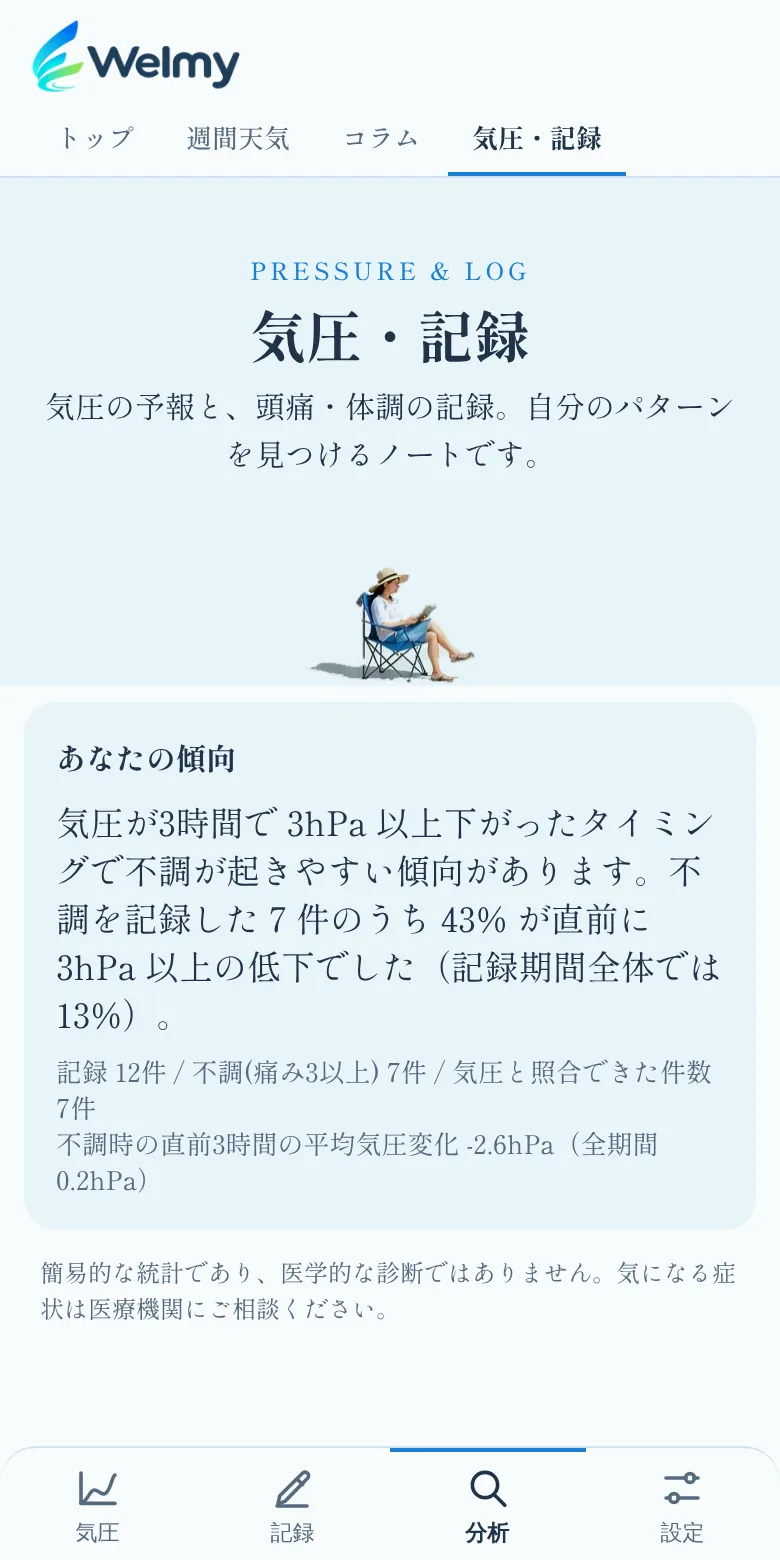
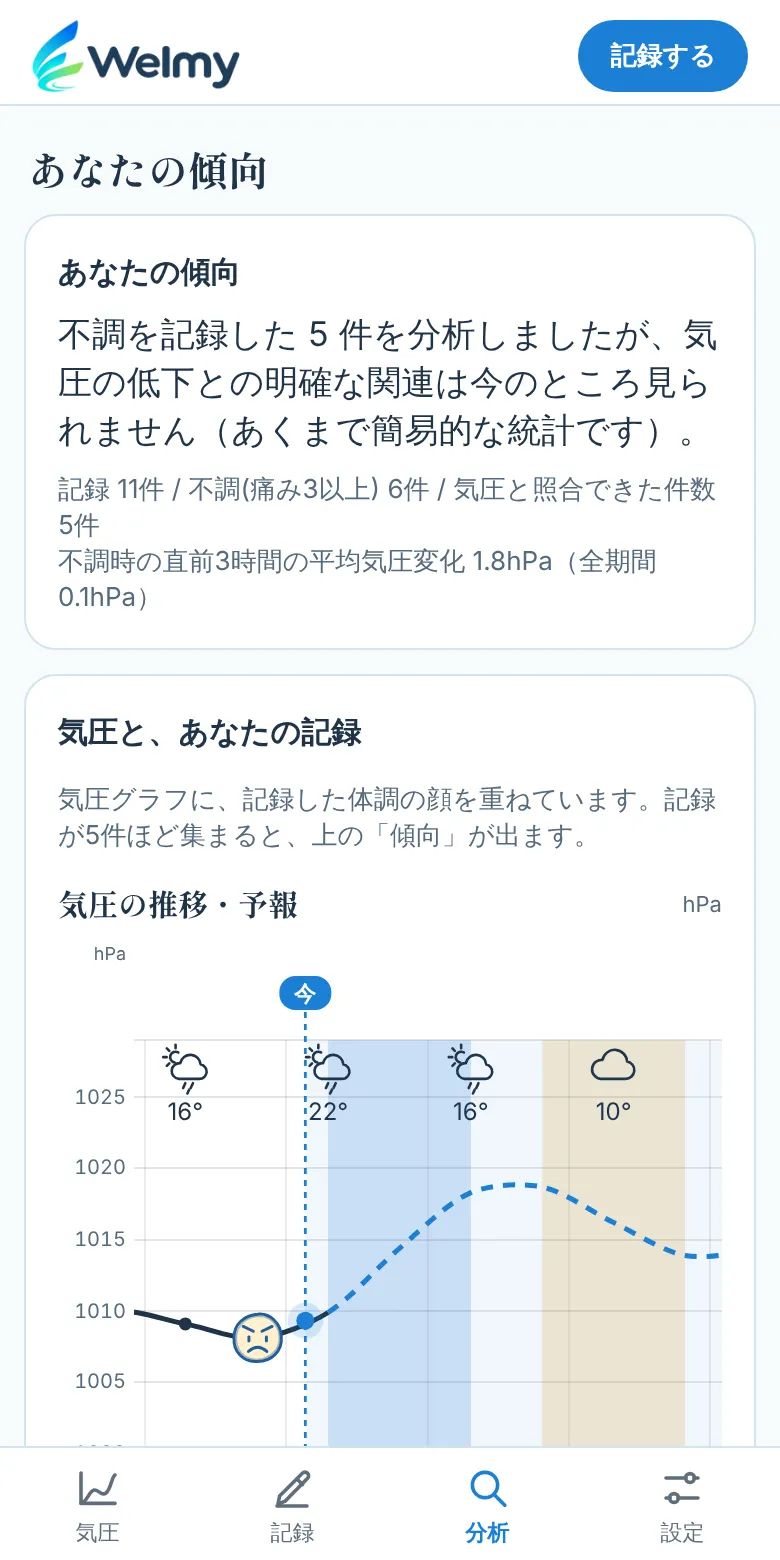
サイト点検4: サービス紹介を短縮し画面キャプチャを現行UIで撮り直し、コラム一覧を4分類で表示
Claude-Session: https://claude.ai/code/session_01GABYT29VUZzXrt2vySzu7C

diff --git a/src/pages.js b/src/pages.js
@@ -399,11 +399,21 @@ ${notifyCta()}
 
 /* ---------- コラム ---------- */
 
+// コラム一覧の分類(全記事がどこかに入ること: test で確認)
+export const COL_CATS = [
+  ['basic', '基礎知識', '気象病と気圧のしくみ', ['what-is-kishobyo', 'kiatsu-zutsu', 'pressure-pattern', 'tenkitsu-season', 'typhoon-headache']],
+  ['care', '備えとセルフケア', '前日の準備・その場の対処・習慣', ['day-before', 'when-it-hurts', 'daily-habits', 'ear-stretch', 'neck-shoulder-stretch']],
+  ['symptom', '症状別', '頭痛以外の不調・続くとき', ['sleepy-dizzy', 'old-injury', 'how-long']],
+  ['doctor', '受診・薬・記録', '医療機関・市販薬・頭痛ダイアリー', ['when-to-see-doctor', 'which-department', 'otc-medicine', 'headache-diary', 'how-to-use-app']],
+];
 export function columnsPage() {
   const body = `
 <div class="page-head has-ppl"><div class="wrap"><p class="en">COLUMN</p><h1>コラム｜天気痛・気象病</h1><p>気圧の変化による頭痛や不調との付き合い方を、やさしくまとめました。</p></div><div class="pg-ppl" aria-hidden="true">${person('yoga', { k: 0.5 })}</div></div>
 <div class="wrap">
-<div class="col-list">${COLUMNS.map((c) => columnCard(c)).join('')}</div>
+<nav class="col-cats" aria-label="分類">${COL_CATS.map(([id, n]) => `<a href="#cat-${id}">${n}</a>`).join('')}</nav>
+${COL_CATS.map(([id, n, d, slugs]) => `<section class="col-cat" id="cat-${id}" aria-labelledby="h-${id}"><h2 id="h-${id}" class="pg-h">${n}<small>${d}</small></h2>
+<div class="col-list">${slugs.map((sl) => findColumn(sl)).filter(Boolean).map((c) => columnCard(c)).join('')}</div></section>`).join('\n')}
+<p class="muted small">症状から探す：${SYMPTOMS.map((y) => `<a href="/symptoms/${y.slug}">${esc(y.name)}</a>`).join('・')}　／　<a href="/guide">気象病ガイド・症状別</a></p>
 <p class="disclaimer">コラムは一般的な情報で、診断や治療の代わりにはなりません。症状が強い・続くときは医療機関に相談してください。</p>
 </div>`;
   return layout({
@@ -751,22 +761,17 @@ ${GLOSSARY.map(([t, r, d, slug], i) => `<div class="gl-i" id="g${i + 1}"><dt>${e
 const ABOUT_FEATURES = [
   ['01', '気圧の変化をやさしく予報', '気象庁のアメダスと天気予報、OpenWeatherMapをもとに、お住まいの都道府県の気圧を時間ごとに見られます。グラフには過去の実測と今後の予測が並び、いつ下がるのかが一目で分かります。'],
   ['02', '体調そらもよう(5段階)', '気圧・気温差・降水・湿度の4つを、人物イラストの5段階(気候が快調〜体調不良に注意)とスコア(0〜100)にまとめます。気圧の低下は「上昇注意」「やや注意」「注意」「警戒」の4段階(1時間あたり+1.0hPa以上 / −0.5〜−1.0 / −1.0〜−1.5 / −1.5以下)でも確認できます。暫定の目安で、医学的な基準ではありません。'],
-  ['03', '痛み・症状・服薬の記録', '痛みの度合いを5つの顔から選ぶだけで記録できます。頭痛・めまい・だるさ・睡眠の質などの症状、飲んだ薬、メモは「くわしく記録する」から任意で。記録にはそのときの気圧と6時間前との差が自動で添えられ、月間カレンダーでも振り返れます。'],
+  ['03', '痛み・症状・服薬の記録', '痛みの度合いを6つの顔(痛みなし〜耐えがたい)から選ぶだけで記録できます。頭痛・めまい・だるさ・睡眠の質などの症状、飲んだ薬、メモは「くわしく記録する」から任意で。記録にはそのときの気圧と6時間前との差が自動で添えられ、月間カレンダーでも振り返れます。'],
   ['04', '自分のパターンを見つける分析', '記録と気圧の変化を重ねて、「気圧が下がり始めて何時間後に痛みが出やすいか」などの傾向を振り返れます。通院時に見せられる履歴としても使えます。'],
   ['05', '前の晩のお知らせ(準備中)', '翌日に気圧が大きく動きそうなとき、前の晩にプッシュ通知でお知らせする機能です。受け取るレベル(注意以上 / 警戒のみ)と時刻(17〜23時)を選べる設計ですが、通知の送信は現在準備中です。'],
-  ['06', '明日の見通しと週間天気', 'トップでは、夜は「明日」、日中は「今日」の気圧の見通しを大きく表示します。週間天気では、7日間の天気・気温・降水確率と気圧の見通しをまとめて確認でき、週末の行は強調され、この週末の見通しを共有することもできます。'],
-  ['07', '気象病を防ぐコラム', '天気痛・気象病・気圧頭痛の仕組み、前日の準備、セルフケア、頭痛ダイアリー、受診の目安までを18本の記事で紹介しています。'],
-  ['08', '地域ごとのみんなの傾向', '都道府県単位で匿名に集計した「今日つらい人の割合」を見られます。個人が特定される情報は出しません。'],
+  ['06', '気象病を防ぐコラム', '天気痛・気象病・気圧頭痛の仕組み、前日の準備、セルフケア、頭痛ダイアリー、受診の目安までを18本の記事で紹介しています。'],
 ];
 
 const ABOUT_SHOTS = [
-  ['app-dash', '01', 'ホーム：今日の体調そらもよう', '気圧・気温・降水・湿度の4つをまとめて、人物イラストの5段階で「今日の体調への影響」をひと目で表示します。いまのレベルの段だけ色がつき、スコア(0〜100)と、気になる要因、5段階の見かたも確認できます。', ['5段階のイラストとスコア', '気圧・気温・降水・湿度のタイル', '気になる要因を文章で']],
-  ['app-chart', '02', '気圧の推移と予報グラフ', '過去の実測(点線)と今後の予報がつながったグラフで、いつ気圧が下がるかを確認できます。天気マーク、気温、4段階の背景色、過去に記録した痛みの顔もグラフに重なります。', ['過去と予報を連続表示', '4段階の色と天気マーク', '地域の切り替え']],
-  ['app-log', '03', '記録：まずは顔を1タップ', '最初に出るのは、痛みの度合いを選ぶ5つの顔だけ。タップするだけで記録できます。症状のタグ・服薬・日時・メモは、「くわしく記録する」を開いたときだけ、任意で残せます。', ['顔アイコンで痛みを選ぶ', '症状・服薬・メモは任意', '薬の検索とマイ薬リスト']],
-  ['app-loglist', '04', '記録リスト：そのときの気圧も一緒に', '記録には、記録した時刻の気圧と6時間前との差が自動で添えられます。気圧が大きく下がっていたときは赤く表示され、「あの痛みはやっぱり気圧だった」が見返しやすくなります。', ['記録時の気圧を自動表示', '6時間前との差(−1.5hPa以下は赤)', '編集・削除もここから']],
-  ['app-cal', '05', 'カレンダー：痛みを月ごとに振り返る', 'リストとカレンダーを切り替えられます。記録のある日にはその日いちばん強い痛みの顔が出て、日付をタップするとその日の記録を確認できます。', ['月ごとに一覧', '痛みの強い日がひと目で分かる', '前の月にさかのぼれる']],
-  ['app-insight', '06', '分析：自分のパターンを知る', '記録と気圧の変化を照らし合わせ、「気圧が下がったあとに不調が出やすいか」を簡単な統計で示します。傾向が出るまでに必要な記録の件数は、進み具合のバーで分かります。', ['気圧低下との関連を文章で', '必要な記録件数までの進捗バー', '通院時の参考に']],
-  ['app-settings', '07', '設定：地域と通知', '主な地域を最大3つまで登録できます。通知は、受け取る気圧のレベル(注意以上 / 警戒のみ)と時刻(前の晩の17〜23時)を選べる設計です。通知機能は現在準備中です。データはいつでもご自身で全削除できます。', ['地域は都道府県単位のみ', '通知のレベルと時刻の設定(準備中)', 'データの全削除']],
+  ['app-dash', '01', 'ホーム：明日の気圧と、今日の体調そらもよう', 'いちばん上に「明日の気圧」、その下に気圧・気温・降水・湿度から見た「今日の体調そらもよう」（5段階とスコア）と気圧グラフをまとめて表示します。', ['明日の気圧のレベルとピーク時刻', '気になる要因をチップで表示', '気圧グラフと今日の過ごし方']],
+  ['app-log', '02', '記録：顔を1タップするだけ', '「痛みなし」から「耐えがたい」までの6つの顔を選ぶだけで記録できます。症状・服薬・日時・メモは、必要なときだけ「くわしく記録する」から。', ['気圧は自動で一緒に記録', 'マイ薬はワンタップで追加', '過去の日の記録もあとから追加']],
+  ['app-cal', '03', 'カレンダー：月ごとに振り返る', '記録のある日には、その日いちばん強い痛みの顔が出ます。記録のない日をタップすると、その日の記録を追加できます。', ['日ごとの痛みをひと目で', 'タップでその日の記録を表示', 'CSVで書き出しも可能']],
+  ['app-insight', '04', '分析：気圧と記録を重ねる', '気圧グラフに自分の記録を重ねて表示し、記録が集まると「気圧が下がったあとに不調が出やすいか」を簡単な統計で示します。', ['気圧グラフに記録を重ねて表示', '傾向が出るまでの件数を表示', '通院時の手がかりに']],
 ];
 const ABOUT_PAGES = [
   ['weather', '/weather', '週間天気', '7日間の天気・気温・降水確率と、日ごとの気圧の見通しを一覧できます。'],
@@ -800,8 +805,7 @@ export function aboutPage() {
 <section><h2 class="en-h">WHAT YOU CAN DO<small>できること</small></h2>
 <div class="ab-verbs">${ABOUT_VERBS.map(([v, en, t, d, ic], i) => `<article class="ab-verb"><span class="ic">${ic}</span><p class="en">${en}</p><h3>${i + 1}. ${esc(v)}</h3><b>${esc(t)}</b><p>${esc(d)}</p></article>`).join('')}</div></section>
 <section><h2 class="en-h">SCREENS<small>画面で見る</small></h2>
-${ABOUT_SHOTS.map(([n, no, t, d, li], i) => `<div class="ab-shot${i % 2 ? ' rev' : ''}">${phoneImg(n, t)}<div class="ab-txt"><span class="no">${no}</span><h3>${esc(t)}</h3><p>${esc(d)}</p><ul>${li.map((x) => `<li>${esc(x)}</li>`).join('')}</ul></div></div>`).join('')}
-<div class="ab-pages">${ABOUT_PAGES.map(([n, h, t, d]) => `<a href="${h}">${phoneImg(n, t + 'のページ')}<b>${esc(t)} →</b><span>${esc(d)}</span></a>`).join('')}</div></section>
+${ABOUT_SHOTS.map(([n, no, t, d, li], i) => `<div class="ab-shot${i % 2 ? ' rev' : ''}">${phoneImg(n, t)}<div class="ab-txt"><span class="no">${no}</span><h3>${esc(t)}</h3><p>${esc(d)}</p><ul>${li.map((x) => `<li>${esc(x)}</li>`).join('')}</ul></div></div>`).join('')}</section>
 <section><h2 class="en-h">FEATURES<small>主な機能</small></h2>
 <div class="ab-grid">${ABOUT_FEATURES.map(([n, t, d]) => `<article class="ab-card"><span class="no">${n}</span><h3>${esc(t)}</h3><p>${esc(d)}</p></article>`).join('')}</div></section>
 <section><h2 class="en-h">HOW TO USE<small>使い方</small></h2>

diff --git a/public/brand.css b/public/brand.css
@@ -346,3 +346,7 @@ body[data-page="weather"] .btn.primary, body[data-page="pressure"] .btn.primary,
 /* 週間天気・都道府県: 上の大きな気圧値は下の「気圧」タイルと重複するので出さない */
 .today.has-fx .t-body .big { display: none; }
 .pref-t td small, table td small { display: block; font-size: 11px; color: var(--color-ink-muted); }
+
+/* コラム一覧: 分類 */
+.col-cats { display: flex; flex-wrap: wrap; gap: 8px; margin: 4px 0 8px; } .col-cats a { padding: 7px 14px; border-radius: 999px; border: 1px solid var(--color-border); background: var(--color-card); color: var(--color-ink); text-decoration: none; font-size: 13px; font-weight: 600; }
+.col-cat { scroll-margin-top: 110px; } .col-cat .pg-h small { display: block; font-size: 12px; font-weight: 400; color: var(--color-ink-muted); letter-spacing: 0; margin-top: 2px; }

diff --git a/public/sw.js b/public/sw.js
@@ -1,5 +1,5 @@
 // アプリシェルのキャッシュ + FCM(Web Push)の受信
-const CACHE = 'kiatsu-shell-v133';
+const CACHE = 'kiatsu-shell-v134';
 const API_OK = ['/api/week', '/api/forecast', '/api/area-stats', '/api/me', '/api/logs', '/api/areas', '/api/config', '/api/insights', '/api/today']; // オフラインでも前回の値を出すAPI(GETのみ)
 const SHELL = ['/app/', '/tokens.css', '/style.css', '/ds.css', '/header.css', '/brand.css', '/dash.css', '/app.js', '/wx.js', '/faces.js', '/manifest.json', '/offline', '/pwa.js', '/terms.html', '/hero/hero.js', '/hero/hero.css', '/vendor/chart.js'];
 
